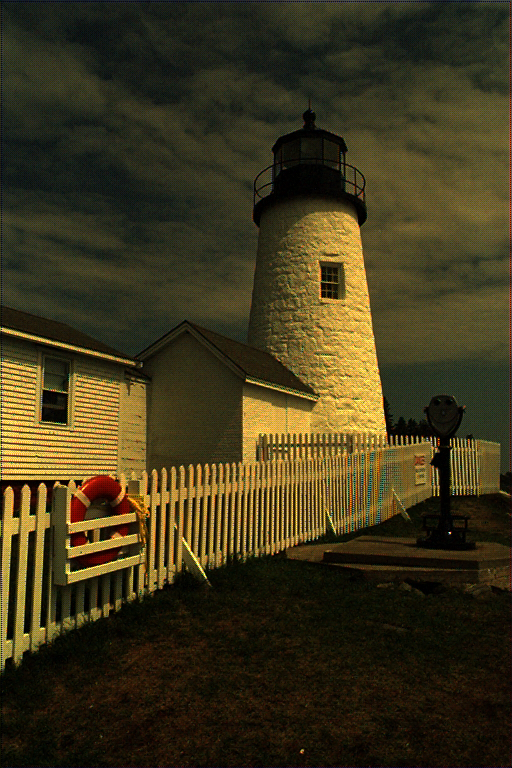
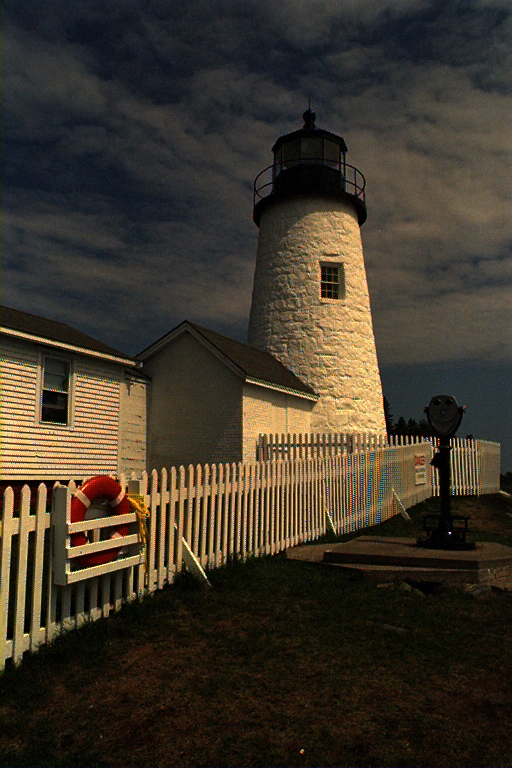
Fixes after labs

Changed region(s): [[0.0, 0.0, 1.0, 0.875], [0.9688, 0.7188, 1.0, 0.7812]]

diff --git a/pipe.py b/pipe.py
@@ -116,7 +116,7 @@ def demored(ch, w, h, pos):
 def demosaicing_edge(ch, pos):
   w, h = len(ch[0]), len(ch)
   print("DEMOSAICING (EDGE-DIRECTED)")
-  ch[0][0] = (ch[0][1] + ch[1][0]) / 2
+  ch[0][0][pos] = (ch[0][1][pos] + ch[1][0][pos]) / 2
   for col in range(2, w-1, 2):
     ch[0][col][pos] = (int(ch[0][col-1][pos]) + int(ch[1][col][pos]) + int(ch[0][col+1][pos]) ) / 3
 
@@ -124,7 +124,7 @@ def demosaicing_edge(ch, pos):
     st = 1
     C = 2
     if row % 2 == 0:
-      ch[row][0] = (int(ch[row-1][0][pos]) + int(ch[row][1][pos]) + int(ch[row+1][0][pos])) / 3
+      ch[row][0][pos] = (int(ch[row-1][0][pos]) + int(ch[row][1][pos]) + int(ch[row+1][0][pos])) / 3
       st = 2
       C = 0
     for col in range(st, w-1, 2):
@@ -137,13 +137,15 @@ def demosaicing_edge(ch, pos):
           ch[row][col][pos] = ( int(ch[row][col-1][pos]) +  int(ch[row][col+1][pos])  ) / 2
         else:
           ch[row][col][pos] = (int(ch[row-1][col][pos]) + int(ch[row+1][col][pos]) + int(ch[row][col-1][pos]) + int(ch[row][col+1][pos])) / 4
+      else:
+        ch[row][col][pos] = (int(ch[row-1][col][pos]) + int(ch[row+1][col][pos]) + int(ch[row][col-1][pos]) + int(ch[row][col+1][pos])) / 4
+
     if row % 2 == 1:
-      ch[row][w-1] = (int(ch[row][w-2][pos]) + int(ch[row-1][w-1][pos]) + int(ch[row+1][w-1][pos])) / 3
+      ch[row][w-1][pos] = (int(ch[row][w-2][pos]) + int(ch[row-1][w-1][pos]) + int(ch[row+1][w-1][pos])) / 3
 
   for col in range(1, w-1, 2):
     ch[h-1][col][pos] = (int(ch[h-1][col-1][pos]) + int(ch[h-2][col][pos]) + int(ch[h-1][col+1][pos]) ) / 3
 
-  print("DEMOSAICING FINISHED")
   return ch
 
 
@@ -160,11 +162,11 @@ def demoblue_edge(ch, w, h, pos):
   for row in range(1, h-1):
     # first pixel in row
     ch[row][0][pos] =  (int(ch[row-1][1][pos]) + int(ch[row+1][1][pos])) / 2 if row % 2 == 0 else ch[row][0][pos]
-    # last pixel in row
-    ch[row][w-1][pos] =  (ch[row-1][w-1][pos] + ch[row+1][w-1][pos]) / 2 if row % 2 == 0 else  ch[row][w-1][pos]
+    # pre-last pixel in row
+    ch[row][w-1][pos] =  (int(ch[row-1][w-1][pos]) + int(ch[row+1][w-1][pos])) / 2 if row % 2 == 0 else  ch[row][w-1][pos]
     for col in range(1, w-1):
       m = np.array([ [0,0,0] ,ch[row-1][col-1],ch[row-1][col],ch[row-1][col+1],ch[row][col-1],ch[row][col],ch[row][col+1], ch[row+1][col-1],ch[row+1][col],ch[row+1][col+1]], dtype=np.int)
-      if col % 2 == 1 and row % 2 == 0: # horizontal
+      if col % 2 == 0 and row % 2 == 1: # horizontal
         gf = (m[4][1] - 2 * m[5][1] + m[6][1]) / 2
         ch[row][col][pos] = max(0, min(255, (m[4][pos] + m[6][pos]) / 2 - gf))
       elif col % 2 == 1 and row % 2 == 0: # vertical
@@ -183,7 +185,7 @@ def demoblue_edge(ch, w, h, pos):
   return ch
 
 def demored_edge(ch, w, h, pos):
-  # first row
+  # first and second row
   for col in range(1, w-1, 2):
     ch[0][col][pos] = (int(ch[0][col-1][pos]) + int(ch[0][col+1][pos])) / 2
   ch[0][w-1][pos] = ch[0][w-2][pos]
@@ -192,7 +194,7 @@ def demored_edge(ch, w, h, pos):
     # first pixel in row
     ch[row][0][pos] =  (int(ch[row-1][0][pos]) + int(ch[row+1][0][pos])) / 2 if row % 2 == 1 else ch[row][0][pos]
     # last pixel in row
-    ch[row][w-1][pos] =  (ch[row-1][w-2][pos] + ch[row+1][w-2][pos]) / 2 if row % 2 == 1 else  ch[row][w-2][pos]
+    ch[row][w-1][pos] = (int(ch[row-1][w-2][pos]) + int(ch[row+1][w-2][pos])) / 2 if row % 2 == 1 else  ch[row][w-2][pos]
     for col in range(1, w-1):
       m = np.array([ [0,0,0] ,ch[row-1][col-1],ch[row-1][col],ch[row-1][col+1],ch[row][col-1],ch[row][col],ch[row][col+1], ch[row+1][col-1],ch[row+1][col],ch[row+1][col+1]], dtype=np.int)
       if col % 2 == 1 and row % 2 == 0: # horizontal
@@ -200,10 +202,17 @@ def demored_edge(ch, w, h, pos):
         ch[row][col][pos] = max(0, min(255, (m[4][pos] + m[6][pos]) / 2 - gf))
       elif col % 2 == 0 and row % 2 == 1: # vertical
         gf = (m[2][1] - 2 * m[5][1] + m[8][1]) / 2
-        ch[row][col][pos] = max(0, min(255, (m[2][pos] + m[8][pos]) / 2 - gf))
+        if col == w-2:
+          ch[row][col][pos] = (m[2][pos] + m[8][pos]) / 2
+        else:
+          ch[row][col][pos] = max(0, min(255, (m[2][pos] + m[8][pos]) / 2 - gf))
       elif col % 2 == 1 and row % 2 == 1 :  # surrounded on diagonal with same colors
-        gf = (m[1][1] + m[3][1] + m[7][1] + m[9][1] - 4 * m[5][1]) / 4
-        ch[row][col][pos] = max(0, min(255, (m[1][pos] + m[3][pos] + m[7][pos] + m[9][1]) / 4 - gf))
+        if row == 1 or col == 1:
+          ch[row][col][pos] = (m[1][pos] + m[3][pos] + m[7][pos] + m[9][1]) / 4
+        else:
+          gf = (m[1][1] + m[3][1] + m[7][1] + m[9][1] - 4 * m[5][1]) / 4
+          ch[row][col][pos] = max(0, min(255, (m[1][pos] + m[3][pos] + m[7][pos] + m[9][1]) / 4 - gf))
+
   # last row
   for col in range(1, w-1):
     if col % 2 == 0:
@@ -221,6 +230,15 @@ def compose_from_channels(red, green, blue, w, h):
       r[i][j][0], r[i][j][1], r[i][j][2] = red[i][j][0], green[i][j][1], blue[i][j][2]
   return r
 
+def decompose_from_channels(c, w, h):
+  r = np.empty_like(c)
+  g = np.empty_like(c)
+  b = np.empty_like(c)
+  for i in range(h):
+    for j in range(w):
+      r[i][j][0], g[i][j][1], b[i][j][2] = c[i][j]
+  return r,g,b
+
 def gamma_correction(level, img):
   print("GAMMA CORRECTION (" + str(level) + ")")
   coef = 1.0 / level
@@ -235,9 +253,10 @@ def demosaicing(primary, redch, bluech, edge_directed=False, rb_reversed=False, 
   red = np.empty_like(green)
   blue = np.empty_like(green)
   result = np.empty_like(green)
+  print("DEMOSAICING START")
   if edge_directed:
     result = compose_from_channels(redch, primary, bluech, width, height)
-    green = demosaicing_edge(result, 1)
+    result = demosaicing_edge(result, 1)
     if not rb_reversed:
       result = demored_edge(result, width, height, 0)
       result = demoblue_edge(result, width, height, 2)
@@ -253,9 +272,11 @@ def demosaicing(primary, redch, bluech, edge_directed=False, rb_reversed=False, 
       red = demoblue(redch, width, height, 0)
       blue = demored(bluech, width, height, 2)
     result = compose_from_channels(red, green, blue, width, height)
+  print("DEMOSAICING FINISHED")
 
   if plot_everything:
     if edge_directed:
+      red,green,blue = decompose_from_channels(result, width, height)
       nparray2png(red, 'dem_red_ch.png')
       nparray2png(green, 'dem_green_ch.png')
       nparray2png(blue, 'dem_blue_ch.png')
@@ -378,5 +399,5 @@ if __name__ == '__main__':
                           help='An edge directed switch')
 
   args = parser.parse_args()
-  pipe(args.src, 'result.png', args.filter_density, args.gamma, args.edge_directed, args.channels_reversed, args.print_everything)
+  pipe(args.src, 'result.png', args.gamma, args.filter_density, args.edge_directed, args.channels_reversed, args.print_everything)
 

diff --git a/README.md b/README.md
@@ -2,7 +2,7 @@
 *DISCLAIMER*: It's student project. DON'T treat it as reference of good code or how to 'make things done' in any way, please!
 
 You can use both python and python3.
-Scroll down to see effects
+Scroll down to see effects.
 
 ## Dependencies
 - PIL
@@ -38,7 +38,6 @@ optional arguments:
 ```
 $ python3 pipe.py lighthouse_RAW.png  --gamma 2.2 --filter_density=1 --print_everything --edge_directed
 $ python3 pipe.py signs-small.png  --gamma 1.9 --print_everything --edge_directed --channels_reversed
-
 ```
 
 ### Base picture
@@ -49,6 +48,6 @@ $ python3 pipe.py signs-small.png  --gamma 1.9 --print_everything --edge_directe
 ![Edge directed](results/result.png)
 ### Demosaicing (edge directed) + gamma correction
 ![Gamma](results/result_corrected.png)
-### Demosaicing (edge directed) + median filter + gamma correction
+### Demosaicing (edge directed) + median filter (density: 1) + gamma correction (gamma: 2.2)
 ![Median filter](results/result_corrected_with_median_filter.png)
 
